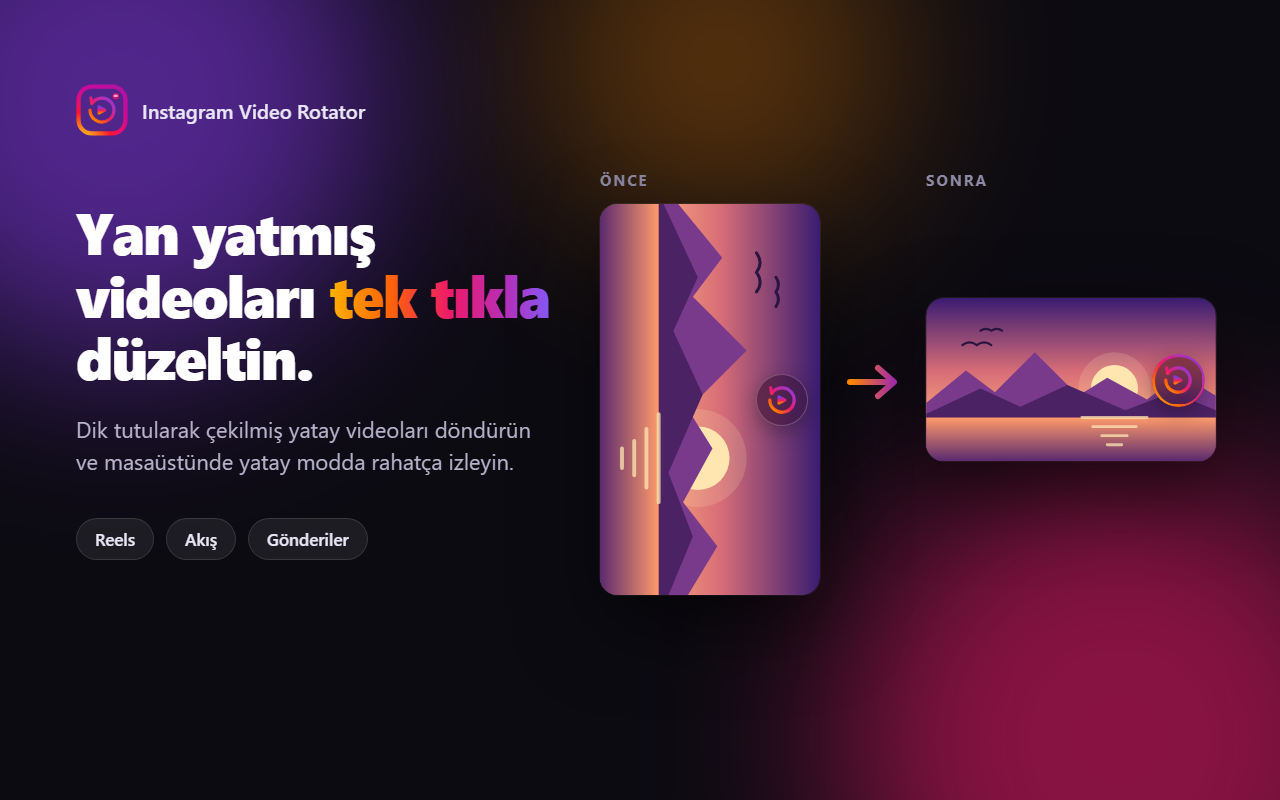
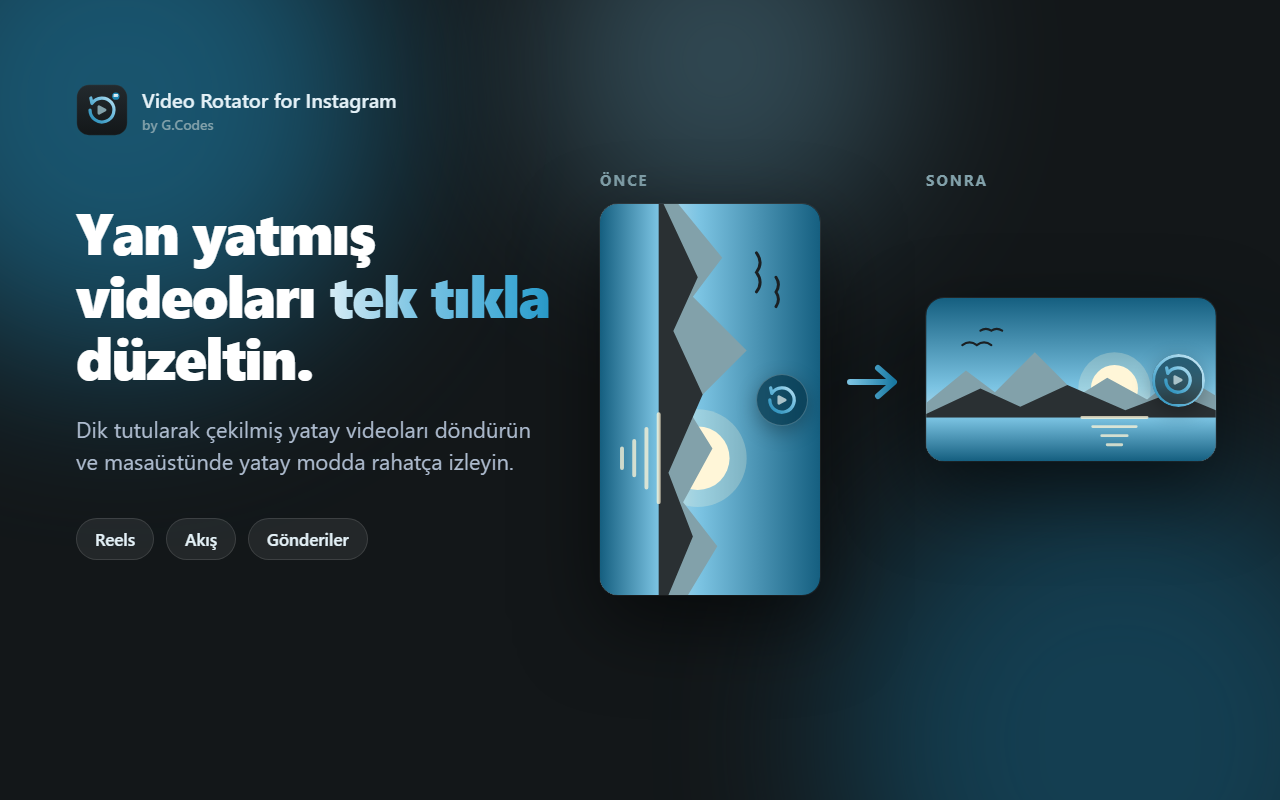
Rename to "Video Rotator for Instagram" and adopt G.Codes branding
- Rename the extension and add a non-affiliation disclaimer to avoid
  Chrome Web Store trademark/impersonation rejections
- Replace the Instagram-like gradient outline icon with a filled dark
  tile in the G.Codes palette; 128px icon keeps 16px transparent padding
  per store guidelines
- Restyle the rotate button and store screenshots/promo tile with the
  same palette

diff --git a/store/assets.html b/store/assets.html
@@ -2,37 +2,37 @@
 <html lang="tr"><head><meta charset="utf-8">
 <style>
   * { box-sizing: border-box; margin: 0; padding: 0; }
-  body { font-family: "Segoe UI", system-ui, sans-serif; color: #fff; background: #0c0b12; overflow: hidden; }
-  .shot { display: none; position: relative; overflow: hidden; background: #0c0b12; }
+  body { font-family: "Segoe UI", system-ui, sans-serif; color: #fff; background: #131719; overflow: hidden; }
+  .shot { display: none; position: relative; overflow: hidden; background: #131719; }
   .shot.on { display: block; }
   .glow { position: absolute; border-radius: 50%; filter: blur(90px); opacity: .55; }
   .s1, .s2, .s3 { width: 1280px; height: 800px; }
   .tile { width: 440px; height: 280px; }
 
-  .brand { display: flex; align-items: center; gap: 14px; font-size: 20px; font-weight: 600; color: #e9e6f5; }
+  .brand { display: flex; align-items: center; gap: 14px; font-size: 20px; font-weight: 600; color: #e4f1f7; }
   .brand img { width: 52px; height: 52px; }
   h1 { font-size: 58px; line-height: 1.08; font-weight: 800; letter-spacing: -1.5px; }
   h2 { font-size: 46px; line-height: 1.1; font-weight: 800; letter-spacing: -1px; }
-  .grad { background: linear-gradient(90deg, #ffb300, #ff6a00 25%, #ee1a6a 55%, #b52fb8 80%, #8a5cff); -webkit-background-clip: text; background-clip: text; color: transparent; }
-  .sub { font-size: 22px; line-height: 1.45; color: #b9b4cc; }
+  .grad { background: linear-gradient(90deg, #d6ecf5, #7cc4e3 40%, #2a9fd0); -webkit-background-clip: text; background-clip: text; color: transparent; }
+  .sub { font-size: 22px; line-height: 1.45; color: #aebccf; }
 
   .frame { position: relative; border-radius: 18px; overflow: hidden; background: #000; box-shadow: 0 30px 80px rgba(0,0,0,.55), 0 0 0 1px rgba(255,255,255,.08); }
   .frame > svg.video { display: block; width: 100%; height: 100%; }
   .rbtn { position: absolute; width: 52px; height: 52px; border-radius: 50%; display: flex; align-items: center; justify-content: center;
-          background: rgba(20,20,20,.5); border: 1.5px solid rgba(255,255,255,.22); backdrop-filter: blur(14px) saturate(160%); box-shadow: 0 6px 20px rgba(0,0,0,.3); }
+          background: rgba(19,23,25,.55); border: 1.5px solid rgba(255,255,255,.22); backdrop-filter: blur(14px) saturate(160%); box-shadow: 0 6px 20px rgba(0,0,0,.3); }
   .rbtn.on::before { content: ''; position: absolute; inset: -1.5px; padding: 2.5px; border-radius: 50%;
-          background: linear-gradient(45deg, #ffb300, #ff6a00, #ee1a6a, #b52fb8, #6a3de8);
+          background: linear-gradient(45deg, #1e87b4, #7cc4e3, #d6ecf5);
           -webkit-mask: linear-gradient(#000 0 0) content-box, linear-gradient(#000 0 0); -webkit-mask-composite: xor; mask-composite: exclude; }
   .rbtn svg { width: 38px; height: 38px; }
-  .label { font-size: 15px; font-weight: 700; letter-spacing: 2px; text-transform: uppercase; color: #8d88a3; }
-  .chip { display: inline-flex; align-items: center; padding: 9px 18px; border-radius: 999px; font-size: 17px; font-weight: 600; color: #e9e6f5; background: rgba(255,255,255,.07); border: 1px solid rgba(255,255,255,.12); }
+  .label { font-size: 15px; font-weight: 700; letter-spacing: 2px; text-transform: uppercase; color: #82a1aa; }
+  .chip { display: inline-flex; align-items: center; padding: 9px 18px; border-radius: 999px; font-size: 17px; font-weight: 600; color: #e4f1f7; background: rgba(255,255,255,.07); border: 1px solid rgba(255,255,255,.12); }
 
   .ui-ico { width: 34px; height: 34px; fill: none; stroke: #fff; stroke-width: 2; stroke-linecap: round; stroke-linejoin: round; }
   .card { border-radius: 22px; padding: 30px 30px 28px; background: linear-gradient(160deg, rgba(255,255,255,.075), rgba(255,255,255,.03)); border: 1px solid rgba(255,255,255,.1); }
   .card h3 { font-size: 24px; font-weight: 700; margin: 20px 0 10px; }
-  .card p { font-size: 18px; line-height: 1.45; color: #b9b4cc; }
+  .card p { font-size: 18px; line-height: 1.45; color: #aebccf; }
   .fico { width: 56px; height: 56px; border-radius: 16px; display: flex; align-items: center; justify-content: center;
-          background: linear-gradient(135deg, #ff8a00, #ee1a6a 50%, #8a3cf0); }
+          background: linear-gradient(135deg, #7cc4e3, #1e87b4 55%, #155f80); }
   .fico svg { width: 30px; height: 30px; fill: none; stroke: #fff; stroke-width: 2.2; stroke-linecap: round; stroke-linejoin: round; }
 </style></head>
 <body>
@@ -41,42 +41,39 @@
 <svg width="0" height="0" style="position:absolute">
   <defs>
     <linearGradient id="sky" x1="0" y1="0" x2="0" y2="1">
-      <stop offset="0" stop-color="#3a1c71"/><stop offset=".45" stop-color="#d76d77"/><stop offset=".8" stop-color="#ffaf7b"/>
+      <stop offset="0" stop-color="#155f80"/><stop offset=".55" stop-color="#7cc4e3"/><stop offset=".9" stop-color="#e4f1f7"/>
     </linearGradient>
     <linearGradient id="sea" x1="0" y1="0" x2="0" y2="1">
-      <stop offset="0" stop-color="#ff9a6b"/><stop offset="1" stop-color="#5a2a6e"/>
+      <stop offset="0" stop-color="#7cc4e3"/><stop offset="1" stop-color="#155f80"/>
     </linearGradient>
     <symbol id="scene" viewBox="0 0 160 90">
       <rect width="160" height="90" fill="url(#sky)"/>
-      <circle cx="104" cy="50" r="13" fill="#ffe6b0"/>
-      <circle cx="104" cy="50" r="20" fill="#ffe6b0" opacity=".18"/>
-      <path d="M0 58 L22 40 L38 52 L60 30 L84 54 L100 44 L122 56 L140 42 L160 54 V90 H0Z" fill="#7a3a8c"/>
-      <path d="M0 64 L30 50 L52 60 L78 48 L110 62 L136 52 L160 62 V90 H0Z" fill="#4b2263"/>
+      <circle cx="104" cy="50" r="13" fill="#fff6d8"/>
+      <circle cx="104" cy="50" r="20" fill="#fff6d8" opacity=".25"/>
+      <path d="M0 58 L22 40 L38 52 L60 30 L84 54 L100 44 L122 56 L140 42 L160 54 V90 H0Z" fill="#82a1aa"/>
+      <path d="M0 64 L30 50 L52 60 L78 48 L110 62 L136 52 L160 62 V90 H0Z" fill="#2a3033"/>
       <rect y="66" width="160" height="24" fill="url(#sea)"/>
-      <path d="M86 66 h36 M92 71 h24 M97 76 h14 M100 81 h8" stroke="#ffe6b0" stroke-width="1.6" stroke-linecap="round" opacity=".75"/>
-      <path d="M20 26 q4 -3 8 0 q4 -3 8 0 M30 18 q3 -2 6 0 q3 -2 6 0" stroke="#2a1440" stroke-width="1.2" fill="none" stroke-linecap="round"/>
+      <path d="M86 66 h36 M92 71 h24 M97 76 h14 M100 81 h8" stroke="#fff6d8" stroke-width="1.6" stroke-linecap="round" opacity=".75"/>
+      <path d="M20 26 q4 -3 8 0 q4 -3 8 0 M30 18 q3 -2 6 0 q3 -2 6 0" stroke="#1b2023" stroke-width="1.2" fill="none" stroke-linecap="round"/>
     </symbol>
     <symbol id="rot" viewBox="18 18 92 92">
       <linearGradient id="rarc" gradientUnits="userSpaceOnUse" x1="100" y1="28" x2="34" y2="98">
-        <stop offset="0" stop-color="#6a3de8"/><stop offset=".3" stop-color="#b52fb8"/><stop offset=".55" stop-color="#ee1a6a"/><stop offset=".8" stop-color="#ff6a00"/><stop offset="1" stop-color="#ffb300"/>
+        <stop offset="0" stop-color="#d6ecf5"/><stop offset=".35" stop-color="#7cc4e3"/><stop offset="1" stop-color="#1e87b4"/>
       </linearGradient>
-      <linearGradient id="rplay" x1="0" y1="0" x2="0" y2="1">
-        <stop offset="0" stop-color="#7a3fe0"/><stop offset=".55" stop-color="#ee1a6a"/><stop offset="1" stop-color="#ff7a00"/>
-      </linearGradient>
-      <path d="M34.5 64A29.5 29.5 0 1 0 39.26 47.93L36.5 34.5" fill="none" stroke="url(#rarc)" stroke-width="8" stroke-linecap="round" stroke-linejoin="round"/>
-      <path d="M56.5 56L56.5 72L71.5 64Z" fill="url(#rplay)" stroke="url(#rplay)" stroke-width="7" stroke-linejoin="round"/>
+            <path d="M34.5 64A29.5 29.5 0 1 0 39.26 47.93L36.5 34.5" fill="none" stroke="url(#rarc)" stroke-width="8" stroke-linecap="round" stroke-linejoin="round"/>
+      <path d="M56.5 56L56.5 72L71.5 64Z" fill="#a9c2c9" stroke="#a9c2c9" stroke-width="7" stroke-linejoin="round"/>
     </symbol>
   </defs>
 </svg>
 
 <!-- 1: Ana görsel -->
 <section class="shot s1" id="s1">
-  <div class="glow" style="width:520px;height:520px;left:-140px;top:-160px;background:#8a3cf0"></div>
-  <div class="glow" style="width:560px;height:560px;right:-120px;bottom:-220px;background:#ee1a6a"></div>
-  <div class="glow" style="width:360px;height:360px;right:380px;top:-120px;background:#ff8a00;opacity:.3"></div>
+  <div class="glow" style="width:520px;height:520px;left:-140px;top:-160px;background:#1e87b4"></div>
+  <div class="glow" style="width:560px;height:560px;right:-120px;bottom:-220px;background:#155f80"></div>
+  <div class="glow" style="width:360px;height:360px;right:380px;top:-120px;background:#7cc4e3;opacity:.3"></div>
 
   <div style="position:absolute;left:76px;top:84px;width:480px">
-    <div class="brand"><img src="../logo.svg">Instagram Video Rotator</div>
+    <div class="brand"><img src="../logo.svg"><span>Video Rotator for Instagram<span style="display:block;font-size:14px;font-weight:500;color:#82a1aa;margin-top:2px">by G.Codes</span></span></div>
     <h1 style="margin-top:64px">Yan yatmış videoları <span class="grad">tek tıkla</span> düzeltin.</h1>
     <p class="sub" style="margin-top:26px">Dik tutularak çekilmiş yatay videoları döndürün ve masaüstünde yatay modda rahatça izleyin.</p>
     <div style="display:flex;gap:12px;margin-top:40px">
@@ -93,7 +90,7 @@
   </div>
 
   <svg style="position:absolute;left:846px;top:362px" width="54" height="40" viewBox="0 0 54 40" fill="none">
-    <defs><linearGradient id="ar" x1="0" x2="1"><stop offset="0" stop-color="#ff8a00"/><stop offset="1" stop-color="#b52fb8"/></linearGradient></defs>
+    <defs><linearGradient id="ar" x1="0" x2="1"><stop offset="0" stop-color="#7cc4e3"/><stop offset="1" stop-color="#1e87b4"/></linearGradient></defs>
     <path d="M4 20 H46 M32 6 L48 20 L32 34" stroke="url(#ar)" stroke-width="6" stroke-linecap="round" stroke-linejoin="round"/>
   </svg>
 
@@ -108,8 +105,8 @@
 
 <!-- 2: Reels yatay mod -->
 <section class="shot s2" id="s2">
-  <div class="glow" style="width:600px;height:600px;left:-200px;bottom:-260px;background:#ff6a00;opacity:.35"></div>
-  <div class="glow" style="width:620px;height:620px;right:-200px;top:-260px;background:#8a3cf0"></div>
+  <div class="glow" style="width:600px;height:600px;left:-200px;bottom:-260px;background:#176f95;opacity:.35"></div>
+  <div class="glow" style="width:620px;height:620px;right:-200px;top:-260px;background:#1e87b4"></div>
 
   <div style="position:absolute;left:0;right:0;top:62px;text-align:center">
     <h2>Reels'te <span class="grad">gerçek yatay mod</span></h2>
@@ -119,7 +116,7 @@
   <div class="frame" style="position:absolute;left:214px;top:236px;width:780px;height:439px">
     <svg class="video" viewBox="0 0 160 90"><use href="#scene" width="160" height="90"/></svg>
     <div style="position:absolute;left:20px;top:18px;display:flex;align-items:center;gap:12px;font-size:18px;font-weight:600;text-shadow:0 1px 4px rgba(0,0,0,.5)">
-      <span style="width:38px;height:38px;border-radius:50%;background:linear-gradient(135deg,#ffb300,#ee1a6a,#8a3cf0);padding:2px;display:inline-block"><span style="display:block;width:100%;height:100%;border-radius:50%;background:#2b1a3d;border:2px solid #0c0b12"></span></span>
+      <span style="width:38px;height:38px;border-radius:50%;background:linear-gradient(135deg,#d6ecf5,#7cc4e3,#1e87b4);padding:2px;display:inline-block"><span style="display:block;width:100%;height:100%;border-radius:50%;background:#2a3033;border:2px solid #131719"></span></span>
       kullanici_adi
     </div>
     <div class="rbtn on" style="right:18px;top:193px"><svg><use href="#rot"/></svg></div>
@@ -134,16 +131,16 @@
   </div>
 
   <div style="position:absolute;left:1000px;top:268px;width:250px">
-    <div style="font-size:17px;line-height:1.4;color:#d9d5e8;background:rgba(255,255,255,.07);border:1px solid rgba(255,255,255,.12);border-radius:14px;padding:12px 16px">
-      Tekrar tıklayın: <b>180°</b>, <b>270°</b> ve orijinal.<br><span style="color:#9d98b3">Shift + tık: ters yöne</span>
+    <div style="font-size:17px;line-height:1.4;color:#e4f1f7;background:rgba(255,255,255,.07);border:1px solid rgba(255,255,255,.12);border-radius:14px;padding:12px 16px">
+      Tekrar tıklayın: <b>180°</b>, <b>270°</b> ve orijinal.<br><span style="color:#82a1aa">Shift + tık: ters yöne</span>
     </div>
   </div>
 </section>
 
 <!-- 3: Özellikler -->
 <section class="shot s3" id="s3">
-  <div class="glow" style="width:560px;height:560px;left:-200px;top:-220px;background:#ee1a6a;opacity:.4"></div>
-  <div class="glow" style="width:620px;height:620px;right:-220px;bottom:-280px;background:#8a3cf0"></div>
+  <div class="glow" style="width:560px;height:560px;left:-200px;top:-220px;background:#155f80;opacity:.4"></div>
+  <div class="glow" style="width:620px;height:620px;right:-220px;bottom:-280px;background:#1e87b4"></div>
 
   <div style="position:absolute;left:84px;top:70px;display:flex;align-items:center;justify-content:space-between;width:1112px">
     <h2>Basit, hafif <span class="grad">ve güvenli</span></h2>
@@ -186,12 +183,12 @@
 
 <!-- Küçük tanıtım kutusu 440x280 -->
 <section class="shot tile" id="tile">
-  <div class="glow" style="width:300px;height:300px;left:-100px;top:-120px;background:#8a3cf0;filter:blur(60px)"></div>
-  <div class="glow" style="width:320px;height:320px;right:-120px;bottom:-160px;background:#ee1a6a;filter:blur(60px)"></div>
+  <div class="glow" style="width:300px;height:300px;left:-100px;top:-120px;background:#1e87b4;filter:blur(60px)"></div>
+  <div class="glow" style="width:320px;height:320px;right:-120px;bottom:-160px;background:#155f80;filter:blur(60px)"></div>
   <div style="position:absolute;inset:0;display:flex;flex-direction:column;align-items:center;justify-content:center;text-align:center;gap:16px">
     <img src="../logo.svg" style="width:96px;height:96px">
-    <div style="font-size:28px;font-weight:800;letter-spacing:-.5px">Instagram Video Rotator</div>
-    <div style="font-size:17px;color:#c9c4da">Yan yatmış videoları <span class="grad" style="font-weight:700">tek tıkla</span> düzeltin</div>
+    <div style="font-size:26px;font-weight:800;letter-spacing:-.5px">Video Rotator for Instagram</div>
+    <div style="font-size:17px;color:#aebccf">Yan yatmış videoları <span class="grad" style="font-weight:700">tek tıkla</span> düzeltin</div>
   </div>
 </section>
 

diff --git a/content.js b/content.js
@@ -38,7 +38,7 @@
       box-sizing: border-box;
       border: 1.5px solid rgba(255, 255, 255, 0.22);
       border-radius: 50%;
-      background: rgba(20, 20, 20, 0.5);
+      background: rgba(19, 23, 25, 0.55);
       -webkit-backdrop-filter: blur(14px) saturate(160%);
       backdrop-filter: blur(14px) saturate(160%);
       box-shadow: 0 6px 20px rgba(0, 0, 0, 0.3);
@@ -54,20 +54,20 @@
       transform: scale(1);
     }
     .ivr-btn.ivr-show:hover {
-      background-color: rgba(20, 20, 20, 0.68);
+      background-color: rgba(19, 23, 25, 0.72);
       transform: scale(1.08);
     }
     .ivr-btn.ivr-show:active {
       transform: scale(0.94);
     }
-    /* Döndürülmüşken kenar Instagram renk geçişine döner. */
+    /* Döndürülmüşken kenar G.Codes mavisi halkaya döner. */
     .ivr-btn::before {
       content: '';
       position: absolute;
       inset: -1.5px;
       padding: 2px;
       border-radius: 50%;
-      background: linear-gradient(45deg, #ffb300, #ff6a00, #ee1a6a, #b52fb8, #6a3de8);
+      background: linear-gradient(45deg, #1e87b4, #7cc4e3, #d6ecf5);
       -webkit-mask: linear-gradient(#000 0 0) content-box, linear-gradient(#000 0 0);
       -webkit-mask-composite: xor;
       mask-composite: exclude;
@@ -97,20 +97,13 @@
     <svg viewBox="18 18 92 92" xmlns="http://www.w3.org/2000/svg">
       <defs>
         <linearGradient id="ivr-arc" gradientUnits="userSpaceOnUse" x1="100" y1="28" x2="34" y2="98">
-          <stop offset="0" stop-color="#6a3de8"/>
-          <stop offset="0.3" stop-color="#b52fb8"/>
-          <stop offset="0.55" stop-color="#ee1a6a"/>
-          <stop offset="0.8" stop-color="#ff6a00"/>
-          <stop offset="1" stop-color="#ffb300"/>
-        </linearGradient>
-        <linearGradient id="ivr-play" x1="0" y1="0" x2="0" y2="1">
-          <stop offset="0" stop-color="#7a3fe0"/>
-          <stop offset="0.55" stop-color="#ee1a6a"/>
-          <stop offset="1" stop-color="#ff7a00"/>
+          <stop offset="0" stop-color="#d6ecf5"/>
+          <stop offset="0.35" stop-color="#7cc4e3"/>
+          <stop offset="1" stop-color="#1e87b4"/>
         </linearGradient>
       </defs>
       <path d="M34.5 64A29.5 29.5 0 1 0 39.26 47.93L36.5 34.5" fill="none" stroke="url(#ivr-arc)" stroke-width="8" stroke-linecap="round" stroke-linejoin="round"/>
-      <path d="M56.5 56L56.5 72L71.5 64Z" fill="url(#ivr-play)" stroke="url(#ivr-play)" stroke-width="7" stroke-linejoin="round"/>
+      <path d="M56.5 56L56.5 72L71.5 64Z" fill="#a9c2c9" stroke="#a9c2c9" stroke-width="7" stroke-linejoin="round"/>
     </svg>
   `;
   (document.body || document.documentElement).appendChild(button);

diff --git a/README.md b/README.md
@@ -1,7 +1,7 @@
-# Instagram Video Rotator
+# Video Rotator for Instagram
 
 **Sürüm:** 5.0.0  
-**Açıklama:** Instagram Video Rotator, masaüstü Instagram kullanıcılarının yatay videoları daha kolay izleyebilmesi için videoları döndürme özelliği sunan bir Chrome uzantısıdır.
+**Açıklama:** Video Rotator for Instagram, masaüstü Instagram kullanıcılarının yatay videoları daha kolay izleyebilmesi için videoları döndürme özelliği sunan bir Chrome uzantısıdır.
 
 ## Özellikler
 - Videonun üzerine gelince çıkan butonla o videoyu 90° döndürme (Shift + tık: ters yöne).
@@ -11,7 +11,7 @@
 
 ## Kurulum
 1. [Chrome Web Mağazası](https://chrome.google.com/webstore)'na gidin.
-2. "Instagram Video Rotator" aramasını yapın.
+2. "Video Rotator for Instagram" aramasını yapın.
 3. Uzantıyı yüklemek için "Chrome'a Ekle" butonuna tıklayın.
 
 ## İzinler
@@ -19,7 +19,7 @@
 
 ## Gizlilik Politikası
 **Yürürlük Tarihi:** Ocak 2025  
-Instagram Video Rotator uzantısı hiçbir kişisel bilgi, tarama geçmişi veya kullanıcı verisi toplamaz, saklamaz veya paylaşmaz. Uzantı yalnızca Instagram masaüstü sitesinde çalışır ve herhangi bir veri dış sunuculara veya üçüncü taraflara iletilmez.
+Video Rotator for Instagram uzantısı hiçbir kişisel bilgi, tarama geçmişi veya kullanıcı verisi toplamaz, saklamaz veya paylaşmaz. Uzantı yalnızca Instagram masaüstü sitesinde çalışır ve herhangi bir veri dış sunuculara veya üçüncü taraflara iletilmez.
 
 ### Veri Toplama
 Bu uzantı kullanıcı verilerini toplamaz, işlemez veya saklamaz.
@@ -30,6 +30,9 @@ Bu uzantı üçüncü taraf hizmetlere veya kuruluşlara erişim sağlamaz.
 ### Kullanım
 Uzantı, yalnızca Instagram'da videoları döndürmek için gerekli olan scriptleri çalıştırır. Bu işlem, kullanıcı tarafından açıkça başlatıldığında aktif sekmede gerçekleştirilir.
 
+## Feragatname
+Bu uzantı Instagram veya Meta ile bağlantılı değildir; onlar tarafından desteklenmez veya onaylanmaz. Instagram, Meta Platforms, Inc. şirketinin ticari markasıdır.
+
 ## Lisans
 Bu proje [MIT Lisansı](https://opensource.org/licenses/MIT) altında lisanslanmıştır.
 
@@ -38,10 +41,10 @@ Herhangi bir sorunla karşılaşırsanız veya sorularınız varsa, lütfen [Git
 
 ---
 
-# Instagram Video Rotator
+# Video Rotator for Instagram
 
 **Version:** 5.0.0  
-**Description:** Instagram Video Rotator is a Chrome extension that helps desktop Instagram users easily rotate horizontal videos for better viewing.
+**Description:** Video Rotator for Instagram is a Chrome extension that helps desktop Instagram users easily rotate horizontal videos for better viewing.
 
 ## Features
 - Rotate the video under the cursor by 90° with the hover button (Shift + click: other direction).
@@ -51,7 +54,7 @@ Herhangi bir sorunla karşılaşırsanız veya sorularınız varsa, lütfen [Git
 
 ## Installation
 1. Go to the [Chrome Web Store](https://chrome.google.com/webstore).
-2. Search for "Instagram Video Rotator."
+2. Search for "Video Rotator for Instagram."
 3. Click the "Add to Chrome" button to install the extension.
 
 ## Permissions
@@ -59,7 +62,7 @@ Herhangi bir sorunla karşılaşırsanız veya sorularınız varsa, lütfen [Git
 
 ## Privacy Policy
 **Effective Date:** January 2025  
-The Instagram Video Rotator extension does not collect, store, or share any personal information, browsing history, or user data. The extension operates solely on the Instagram desktop site and does not transmit any data to external servers or third parties.
+The Video Rotator for Instagram extension does not collect, store, or share any personal information, browsing history, or user data. The extension operates solely on the Instagram desktop site and does not transmit any data to external servers or third parties.
 
 ### Data Collection
 This extension does not collect, process, or store any user data.
@@ -69,6 +72,9 @@ This extension does not provide access to any third-party services or organizati
 
 ### Usage
 The extension executes necessary scripts only to rotate videos on Instagram. This action occurs in the active tab and is initiated explicitly by the user.
+
+## Disclaimer
+This extension is not affiliated with, endorsed by, or sponsored by Instagram or Meta. Instagram is a trademark of Meta Platforms, Inc.
 
 ## License
 This project is licensed under the [MIT License](https://opensource.org/licenses/MIT).

diff --git a/store/listing.md b/store/listing.md
@@ -20,7 +20,7 @@ Bu klasördeki görseller `assets.html` dosyasından üretilir (headless Chrome 
 ### Açıklama
 
 ```
-Dik tutularak çekilmiş ama aslında yatay olan videolar Instagram'da yan yatmış mı görünüyor? Instagram Video Rotator ile izlediğiniz videoyu tek tıkla döndürün ve masaüstünde yatay modda rahatça izleyin.
+Dik tutularak çekilmiş ama aslında yatay olan videolar Instagram'da yan yatmış mı görünüyor? Video Rotator for Instagram ile izlediğiniz videoyu tek tıkla döndürün ve masaüstünde yatay modda rahatça izleyin.
 
 NASIL KULLANILIR
 • Instagram'da bir videonun üzerine gelin; videonun kenarında döndürme butonu belirir.
@@ -42,7 +42,7 @@ Bu uzantı Instagram veya Meta ile bağlantılı değildir; onlar tarafından de
 
 ---
 
-Instagram Video Rotator lets you rotate sideways videos on Instagram desktop with one click and watch them in true landscape mode. Hover over a video and click the rotate button. On Reels and post dialogs the video widens and Instagram's controls follow the new size; the video returns to normal when you move on. No data is collected. Not affiliated with Instagram or Meta.
+Video Rotator for Instagram lets you rotate sideways videos on Instagram desktop with one click and watch them in true landscape mode. Hover over a video and click the rotate button. On Reels and post dialogs the video widens and Instagram's controls follow the new size; the video returns to normal when you move on. No data is collected. Not affiliated with Instagram or Meta.
 ```
 
 ---
